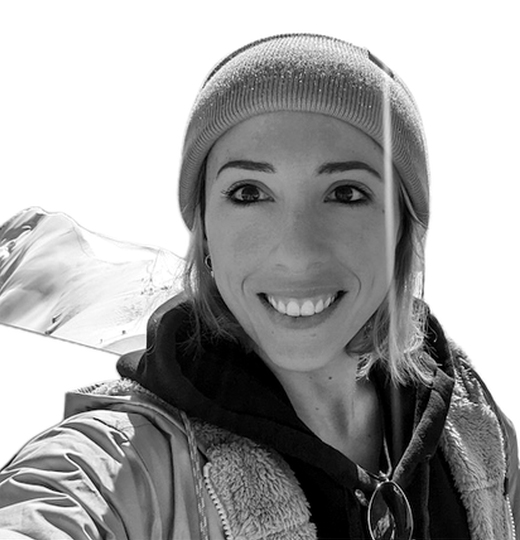
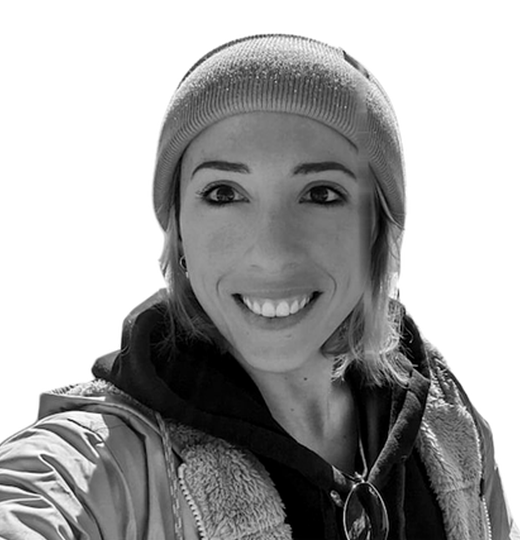
Cleaner cutouts for Charlie Gerard and Matan Kushner
Charlie: subtract the sun flare line and drop the snowy ridge beside her.
Matan: cut the hair edge by brightness against the blossoms, drop loose
specks and the blossom cluster by his jaw.

diff --git a/scripts/cutouts.py b/scripts/cutouts.py
@@ -62,7 +62,103 @@ def patched_mask(im):
             [(0, 0), (0.44 * w, 0), (0.44 * w, 0.17 * h), (0.275 * w, 0.345 * h), (0, 0.345 * h)], fill=255
         )
         matte *= 1 - np.asarray(wedge.filter(ImageFilter.GaussianBlur(1.5))).astype(np.float32) / 255
+    if name.startswith("charlie-gerard"):
+        # the snowy ridge left of her face reads as body: keep only head and torso
+        matte *= polygon_mask(
+            im.size,
+            (0.50, 0.48, 0.20, 0.255),
+            # left edge follows the hood, then the jacket's shoulder line
+            [(0.32, 0.62), (0.70, 0.62), (0.80, 0.72), (0.87, 0.88), (0.90, 1.0),
+             (0.0, 1.0), (0.0, 0.935), (0.06, 0.86), (0.14, 0.765), (0.215, 0.76),
+             (0.215, 0.745), (0.225, 0.726), (0.258, 0.712), (0.262, 0.70),
+             (0.265, 0.668), (0.282, 0.65), (0.30, 0.637)],
+        )
+    if name.startswith("matan-kushner"):
+        matte = dark_hair_matte(im, matte, skin_ellipse=(0.505, 0.50, 0.21, 0.22), hair_bottom=0.56)
+        # a blossom cluster touches his jaw on the right: cut along the jawline
+        w, h = im.size
+        blossom = Image.new("L", im.size, 0)
+        ImageDraw.Draw(blossom).polygon(
+            [(x * w, y * h) for x, y in [(0.685, 0.565), (0.85, 0.565), (0.85, 0.76), (0.70, 0.76),
+                                         (0.625, 0.718), (0.652, 0.695), (0.671, 0.66), (0.679, 0.625)]],
+            fill=255,
+        )
+        matte *= 1 - np.asarray(blossom.filter(ImageFilter.GaussianBlur(1.5))).astype(np.float32) / 255
     return Image.fromarray((matte * 255).astype(np.uint8))
+
+
+def dark_hair_matte(im, matte, skin_ellipse, hair_bottom, dark=70, light=140, core_px=14, grow_px=3):
+    """
+    Re-cut the edge of dark hair against a bright background by brightness.
+
+    The model's matte is soft around curls and drags in a halo of background. Near its edge
+    (within core_px inside to grow_px outside), keep a pixel by how dark it is: fully below
+    `dark`, gone above `light`. The skin ellipse (cx, cy, rx, ry as image fractions) keeps
+    the model's matte so the face and ears aren't keyed out, as does everything below
+    hair_bottom (image fraction). Loose specks are dropped.
+    """
+    w, h = im.size
+    lum = np.asarray(im.convert("L")).astype(np.float32)
+    solid = Image.fromarray(((matte > 0.5) * 255).astype(np.uint8))
+    core = np.asarray(solid.filter(ImageFilter.MinFilter(2 * core_px + 1))) > 0
+    reach = np.asarray(solid.filter(ImageFilter.MaxFilter(2 * grow_px + 1))) > 0
+    key = np.clip((light - lum) / (light - dark), 0, 1)
+    key = key * key * (3 - 2 * key)
+    cx, cy, rx, ry = skin_ellipse
+    ys, xs = np.mgrid[0:h, 0:w]
+    skin = ((xs / w - cx) / rx) ** 2 + ((ys / h - cy) / ry) ** 2 <= 1
+    # below the hair the model's edge is fine and the background is dark too
+    keep_model = core | skin | (ys > hair_bottom * h)
+    out = np.where(keep_model, matte, np.where(reach, key, 0))
+    # keep only what's connected to the middle of the face
+    blob = Image.fromarray(((out > 0.3) * 255).astype(np.uint8)).copy()  # fromarray is read-only
+    ImageDraw.floodfill(blob, (int(cx * w), int(cy * h)), 128)
+    keep = np.asarray(blob.filter(ImageFilter.MaxFilter(5))) == 128
+    return (out * keep).astype(np.float32)
+
+
+def remove_vertical_flare(im, x_top, slope, y_end, half_width=12):
+    """
+    Subtract a near-vertical lens flare running along x = x_top + slope * y, above row y_end.
+
+    The flare is extra light that changes slowly along its length, while the texture under
+    it doesn't line up from row to row. So: brightness above a background ramp (taken from
+    strips just outside the flare on each side) is flare plus texture, a tall vertical blur
+    of that keeps only the flare, and subtracting it leaves the texture.
+    """
+    a = np.asarray(im.convert("RGB")).astype(np.float32)
+    h, w = a.shape[:2]
+    excess = np.zeros_like(a)
+    for y in range(min(y_end, h)):
+        c = x_top + slope * y
+        left, right = int(round(c - half_width)), int(round(c + half_width))
+        lv = np.median(a[y, left - 6 : left], axis=0)
+        rv = np.median(a[y, right + 1 : right + 7], axis=0)
+        xs = np.arange(left, right + 1)
+        t = ((xs - left) / (right - left))[:, None]
+        ramp = lv * (1 - t) + rv * t
+        # soft edges so the correction doesn't leave a seam, fading out over the last 40 rows
+        weight = np.clip(2 * (1 - np.abs(xs - c) / half_width), 0, 1)[:, None] * min(1, (y_end - y) / 40)
+        excess[y, left : right + 1] = np.clip(a[y, left : right + 1] - ramp, 0, None) * weight
+    # vertical-only moving average (the line drifts well under a pixel over the window)
+    k = 25
+    padded = np.pad(excess, ((k // 2, k // 2), (0, 0), (0, 0)), mode="edge")
+    csum = np.cumsum(np.pad(padded, ((1, 0), (0, 0), (0, 0))), axis=0)
+    flare = (csum[k:] - csum[:-k]) / k
+    # never take away more than was there
+    flare = np.minimum(flare, excess)
+    return Image.fromarray(np.clip(a - flare, 0, 255).astype(np.uint8))
+
+
+def clean_source(file):
+    """Return the directory to read `file` from, writing a retouched copy first when it needs one."""
+    if file.startswith("charlie-gerard"):
+        tmp = os.path.join(os.environ["OUT_DIR"], "_sources")
+        os.makedirs(tmp, exist_ok=True)
+        im = Image.open(os.path.join(os.environ["SPEAKERS_DIR"], file))
+        remove_vertical_flare(im, 491, 0.02, 660).save(os.path.join(tmp, file), quality=95)
+        return tmp + "/"
+    return os.environ["SPEAKERS_DIR"]
 
 
 cutout.mask = patched_mask
@@ -72,6 +168,7 @@ if __name__ == "__main__":
         name = os.path.splitext(file)[0]
         current["name"] = name
         out = f"{os.environ['OUT_DIR']}/{name}-cutout.png"
+        cutout.SRC = clean_source(file)
         cutout.process(file, out)
         # no transparent band under the body: zoom in until it reaches the bottom
         note = f"zoomed x{zoom_to_body(out):.2f}"
